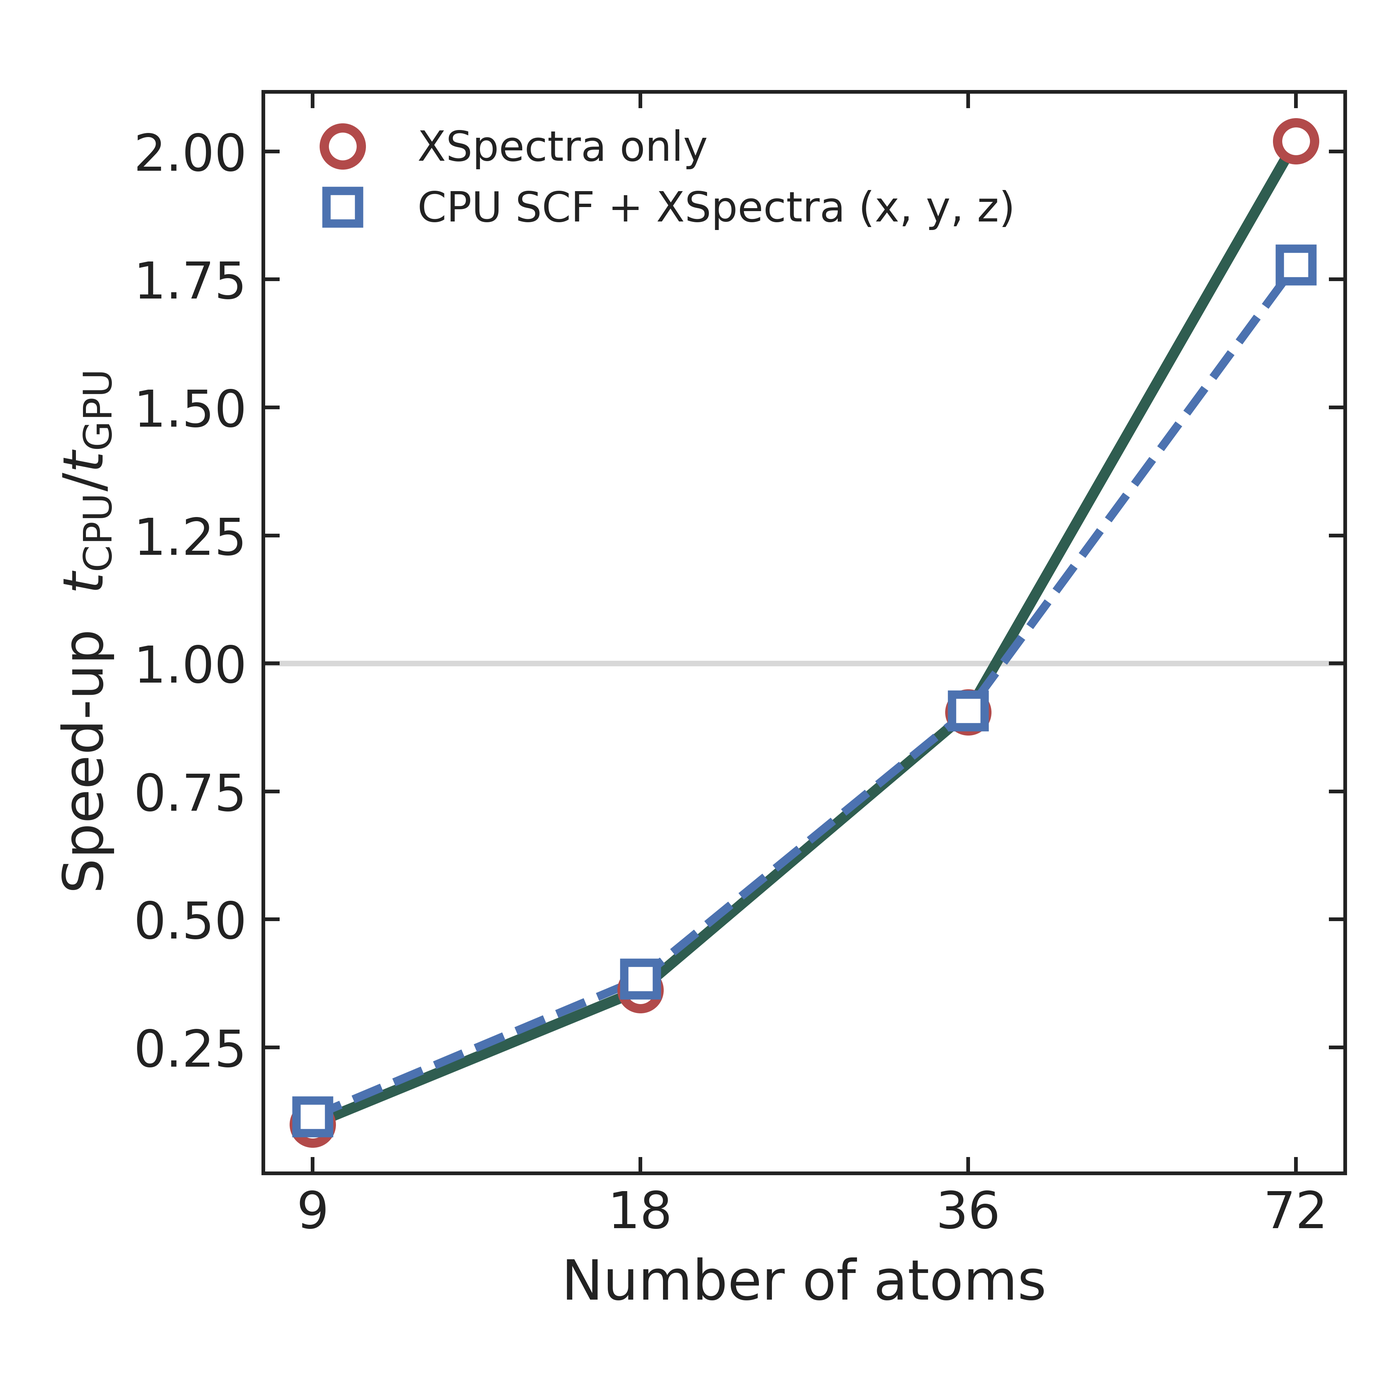
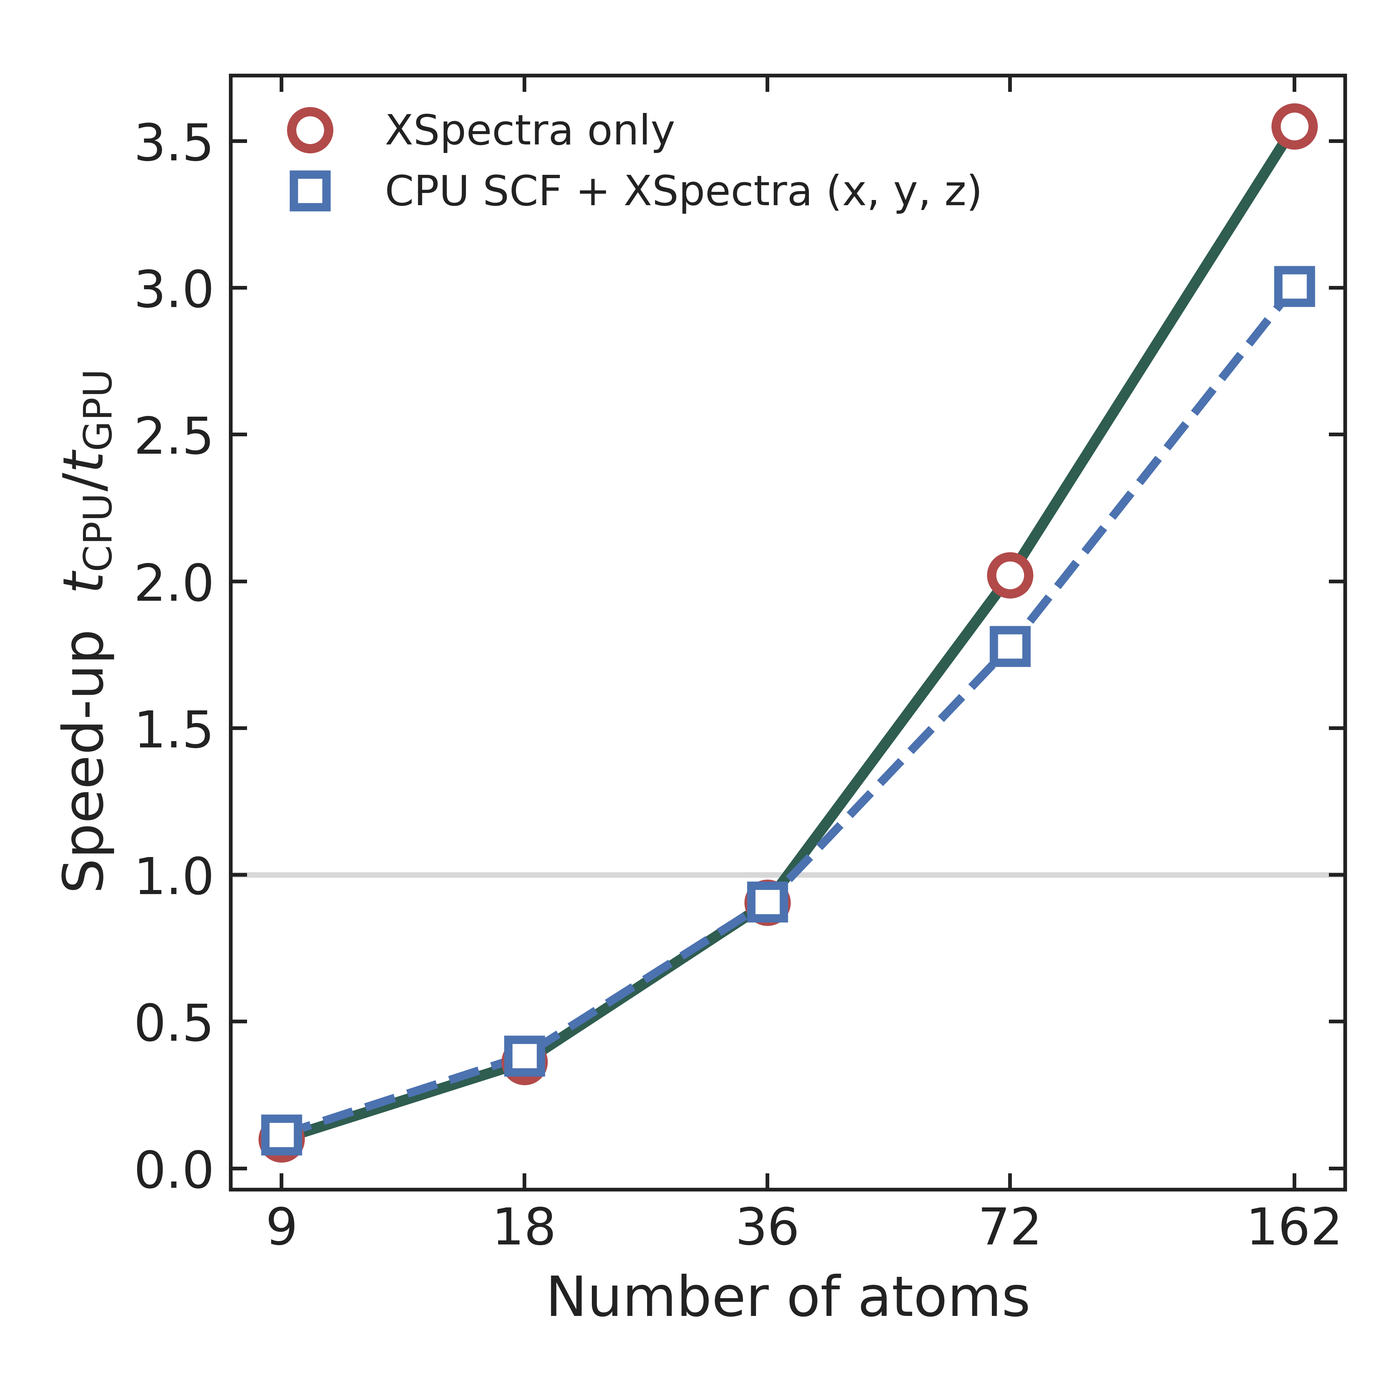
README: 162-atom SiO2 Si K edge, multi-GPU (1-3 RTX PRO 6000) and GPU-model comparison

Changed region(s): [[0.0921, 0.0307, 0.9829, 0.9521]]

diff --git a/README.md b/README.md
@@ -96,9 +96,9 @@ projector products fall onto slow FP64 tensor-core GEMM kernels. Run the polariz
 
 ## Benchmark: system size, edges, materials and molecules
 
-The benchmark below compares one GPU (RTX PRO 5000 Blackwell) with a 64-core CPU node on the same jobs.
-The 162-atom SiO₂ case, the L₁ edge, multi-GPU runs and other GPU models are still running and will be
-added later.
+The benchmark below compares one GPU (RTX PRO 5000 Blackwell) with a 64-core CPU node on the same jobs,
+and then multi-GPU runs and other GPU models on the 162-atom SiO₂ cell. The L₁ and L₂ edges of the 162-atom
+SiO₂ cell are still running and will be added later.
 
 **Common settings**
 - **Method**: XCH core hole with pslibrary 1.0.0 PAW datasets and an absorber dataset generated with `ld1.x`;
@@ -121,7 +121,7 @@ added later.
 <img src="docs/img/benchmark_size_speedup_sio2.png" width="400" alt="CPU/GPU speed-up vs number of atoms, SiO2 Si K edge">
 </p>
 
-**System size (α-SiO₂ supercells, Si K edge, 9 to 72 atoms)** — speed-up = CPU time / GPU time.
+**System size (α-SiO₂ supercells, Si K edge, 9 to 162 atoms)** — speed-up = CPU time / GPU time.
 - **Circles, "XSpectra only"**: XSpectra alone, one polarization.
 - **Squares, "CPU SCF + XSpectra (x, y, z)"**: the whole workflow, i.e. CPU SCF plus the x, y and z spectra,
   with the SCF on the CPU in both cases.
@@ -132,11 +132,14 @@ How the speed-up changes with size:
   the GPU is slower.
 - **Break-even**: around 40 atoms.
 - **72 atoms**: the GPU is 2.0× faster for XSpectra alone and 1.8× faster for the whole workflow.
-- **Cost per Lanczos step**: per k point it grows from 0.56 ms (9 atoms) to 3.3 ms (72 atoms) on the GPU,
-  and from 0.06 ms to 7.3 ms on the CPU.
+- **162 atoms** (36 k points): XSpectra takes 8,225 s per polarization on the CPU node and 2,317 s on the GPU
+  (3.6×). With the 1,827 s CPU SCF, the x, y, z calculation takes 7.3 h on the CPU node and 2.4 h with
+  XSpectra on the GPU (3.0×). The GPU uses 10.0 GiB of device memory.
+- **Cost per Lanczos step**: per k point it grows from 0.56 ms (9 atoms) to 10.6 ms (162 atoms) on the GPU,
+  and from 0.06 ms to 38.4 ms on the CPU.
 
 <p align="center">
-<img src="docs/img/benchmark_time_solids.png" width="400" alt="CPU vs GPU time, Si, AlN and Al2O3, K and L2 edges">
+<img src="docs/img/benchmark_time_solids.png" width="400" alt="CPU vs GPU time, Si, AlN, Al2O3 and 162-atom SiO2">
 <img src="docs/img/benchmark_time_molecules.png" width="400" alt="CPU vs GPU time, C K edge of molecules">
 </p>
 
@@ -152,16 +155,14 @@ How the speed-up changes with size:
 | Si (diamond) | 64 | 64 | K / L₂ | 3.1 / 1.6\* | 2.8 / 1.5\* | 6.1 GiB |
 | w-AlN | 108 | 75 | K / L₂ | 2.0\* / 2.9 | 1.9\* / 2.8 | 6.1 GiB |
 | α-Al₂O₃ | 120 | 75 | K / L₂ | 1.6\* / 2.9 | 1.6\* / 2.9 | 6.1 GiB |
+| α-SiO₂ | 162 | 36 | Si K | 3.6 | 3.0 | 10.0 GiB |
 | CH₄, H₂CO, CF₃C≡CH (each C) | 4–7 | Γ | C K | 1.2–1.7 | 1.2–1.6 | 4.2–4.4 GiB |
 
 \* **Two CPU node types**: the CPU runs used two node types with the same core count.
 - **Unstarred entries**: 2 × Xeon Gold 6530.
 - **Starred entries**: 2 × Xeon Gold 6538Y+.
-- **Effect on the speed-up**: XSpectra is limited by memory bandwidth, and the 6538Y+ node was 1.5–2× faster
-  per Lanczos step. Starred speed-ups are therefore lower; compare speed-ups only between entries of the
-  same kind.
-- **Evidence**: the GPU time per step is the same for the K and L₂ edges of a material (Si 4.65 / 4.69 ms,
-  AlN 5.53 / 5.58 ms per k point and step).
+- **Effect on the speed-up**: XSpectra runs faster on the 6538Y+ node, so starred speed-ups are lower;
+  compare speed-ups only between entries of the same kind.
 
 **Correctness (GPU vs CPU, same SCF data)**: in all cases above:
 - the broadened spectra (Gaussian 0.2 eV × Lorentzian 0.1 eV, −3 to 40 eV) agree to ≤ 8e-5 of the maximum;
@@ -172,19 +173,42 @@ There, the chains start to differ after about 42 iterations: in a molecule the f
 early, and loss of orthogonality then amplifies rounding errors. The same divergence appears between two
 CPU runs with 16 and 64 MPI ranks, so it is not caused by the GPU.
 
+### Several GPUs and other GPU models (162-atom SiO₂, Si K edge)
+
+<p align="center">
+<img src="docs/img/benchmark_multigpu_pro6000.png" width="400" alt="Speed-up on 1, 2 and 3 RTX PRO 6000 GPUs">
+<img src="docs/img/benchmark_gpu_models.png" width="400" alt="XSpectra time on RTX PRO 5000, RTX PRO 6000 Max-Q and RTX 6000 Ada">
+</p>
+
+**Several GPUs (left)**: k-point pools (`-nk` = number of GPUs) with one MPI rank per GPU, on RTX PRO 6000
+Blackwell Max-Q cards. The 36 k points split evenly over 2 or 3 GPUs, and the scaling is almost ideal.
+
+**Other GPU models (right)**: one GPU each; the dashed line is the 64-core CPU node. The labels give the
+memory bandwidth and the FP64 peak (NVIDIA figures; FP64 = FP32/64). The cards are ordered by memory
+bandwidth, not by FP64 peak: the RTX 6000 Ada has a higher FP64 peak than the RTX PRO 5000 but is 1.3× slower.
+
+| GPUs | time per polarization | speed-up vs CPU node | SCF + XSpectra speed-up | GPU memory (peak, per card) |
+|---|---|---|---|---|
+| 1 × RTX PRO 5000 Blackwell | 2,317 s | 3.6 | 3.0 | 10.0 GiB |
+| 1 × RTX 6000 Ada | 3,106 s | 2.6 | 2.4 | 10.1 GiB |
+| 1 × RTX PRO 6000 Blackwell Max-Q | 2,196 s | 3.7 | 3.1 | 10.5 GiB |
+| 2 × RTX PRO 6000 Blackwell Max-Q | 1,109 s (1.98× vs 1 GPU) | 7.4 | 5.1 | 7.6 GiB |
+| 3 × RTX PRO 6000 Blackwell Max-Q | 748 s (2.94× vs 1 GPU) | 11.0 | 6.5 | 6.6 GiB |
+
+All GPU runs agree with the CPU run to ≤ 1.1e-10 (a, b, first 50 iterations) and ≤ 2.2e-6 (spectrum).
+
 ## Limitations
 
 - **Tested environment**: NVIDIA HPC SDK 26.3 (CUDA 13.1). GPUs: RTX PRO 5000/6000 Blackwell and
   A100; the A100 had driver 550 and used the SDK's CUDA forward-compatibility library. CPU reference
   builds: NVHPC and Intel oneAPI 2023.2 + MKL.
 - **Validated cases**:
-  - K-edge dipole: on the 162-atom SiO₂ cell shown above, on SiO₂ supercells of 9–72 atoms, on Si, AlN
+  - K-edge dipole: on SiO₂ supercells of 9–162 atoms, on Si, AlN
     and Al₂O₃, and on the C K edge of molecules (see the benchmark section);
   - L₂ edge: on Si, AlN and Al₂O₃ (64–120 atoms);
   - L₁ edge: on a 9-atom test cell;
   - K-edge quadrupole and the L₃ edge: on the 9-atom test cell only;
-  - k-point pools (`-nk`) and several MPI ranks sharing one GPU: tested.
-- **Not tested yet**: runs on several GPUs (in progress).
+  - k-point pools (`-nk`), several MPI ranks sharing one GPU, and 2–3 GPUs with one rank per GPU: tested.
 - **Stops with an error on the GPU**: norm-conserving pseudopotentials, `gamma_only`, noncollinear
   calculations, and `xepsilon_xyz` together with `restart`/`xonly_plot`.
 - **Reproducibility**: Lanczos without reorthogonalization amplifies rounding differences. GPU and CPU
